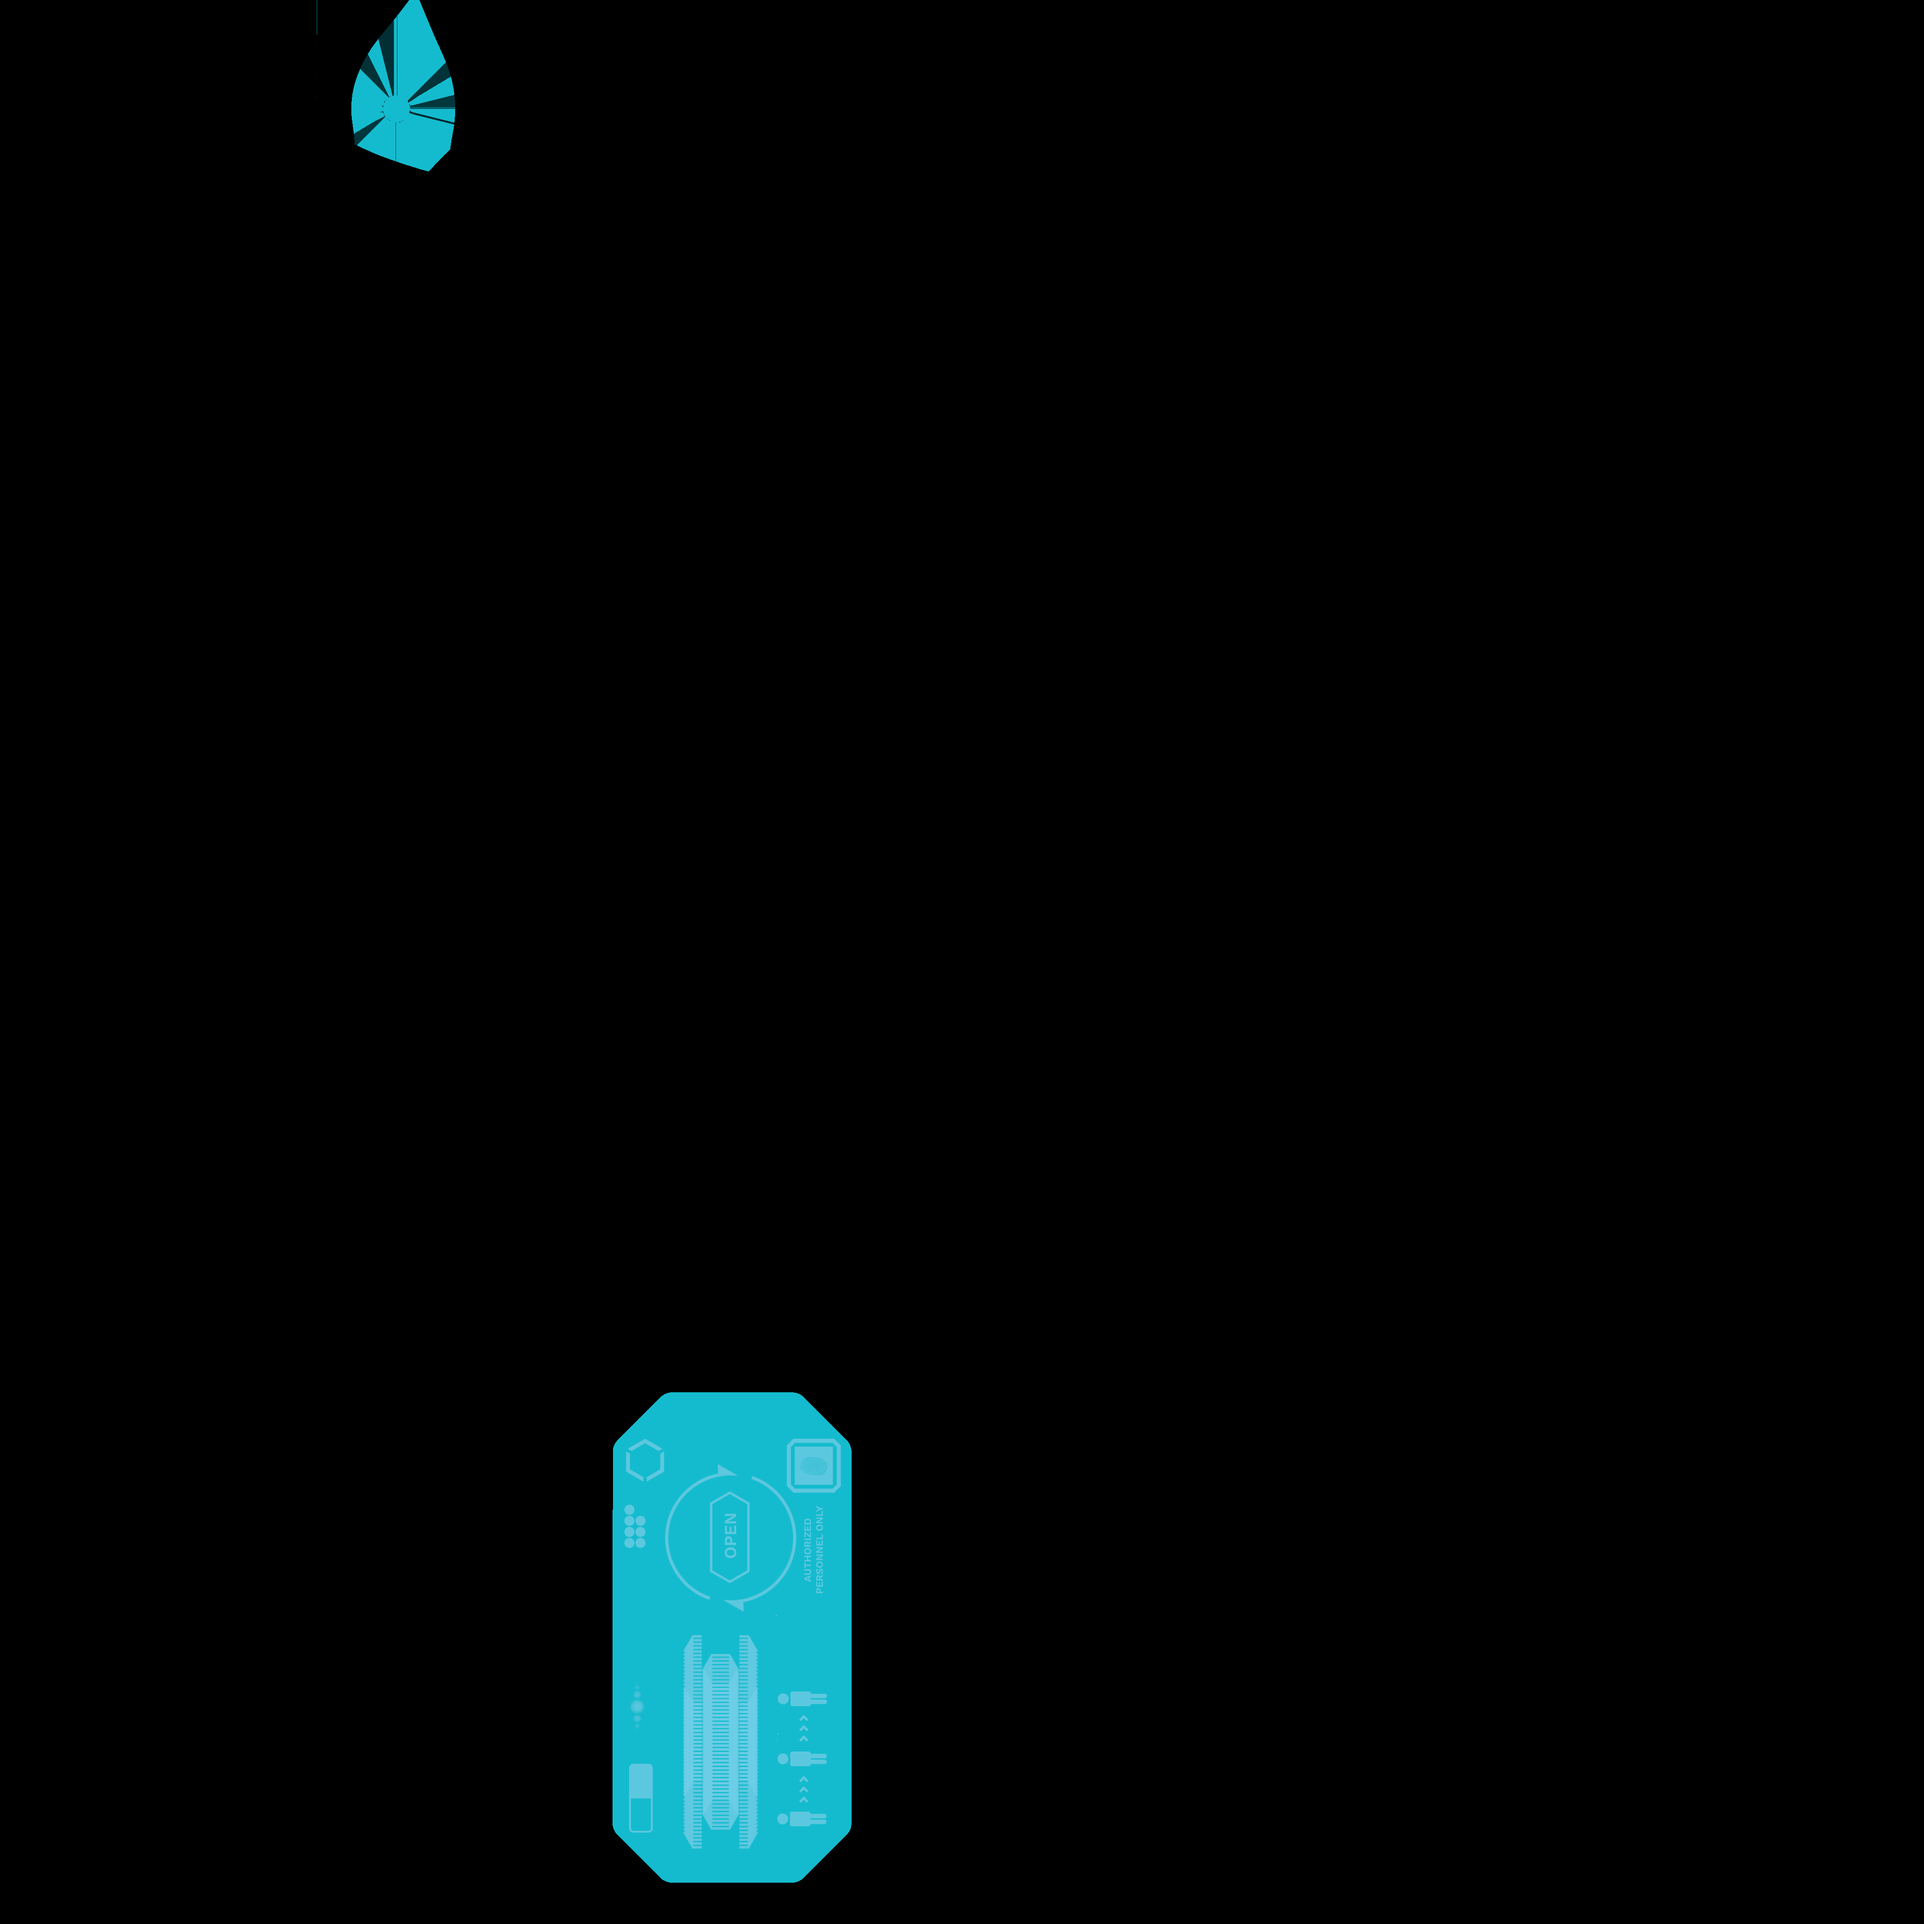
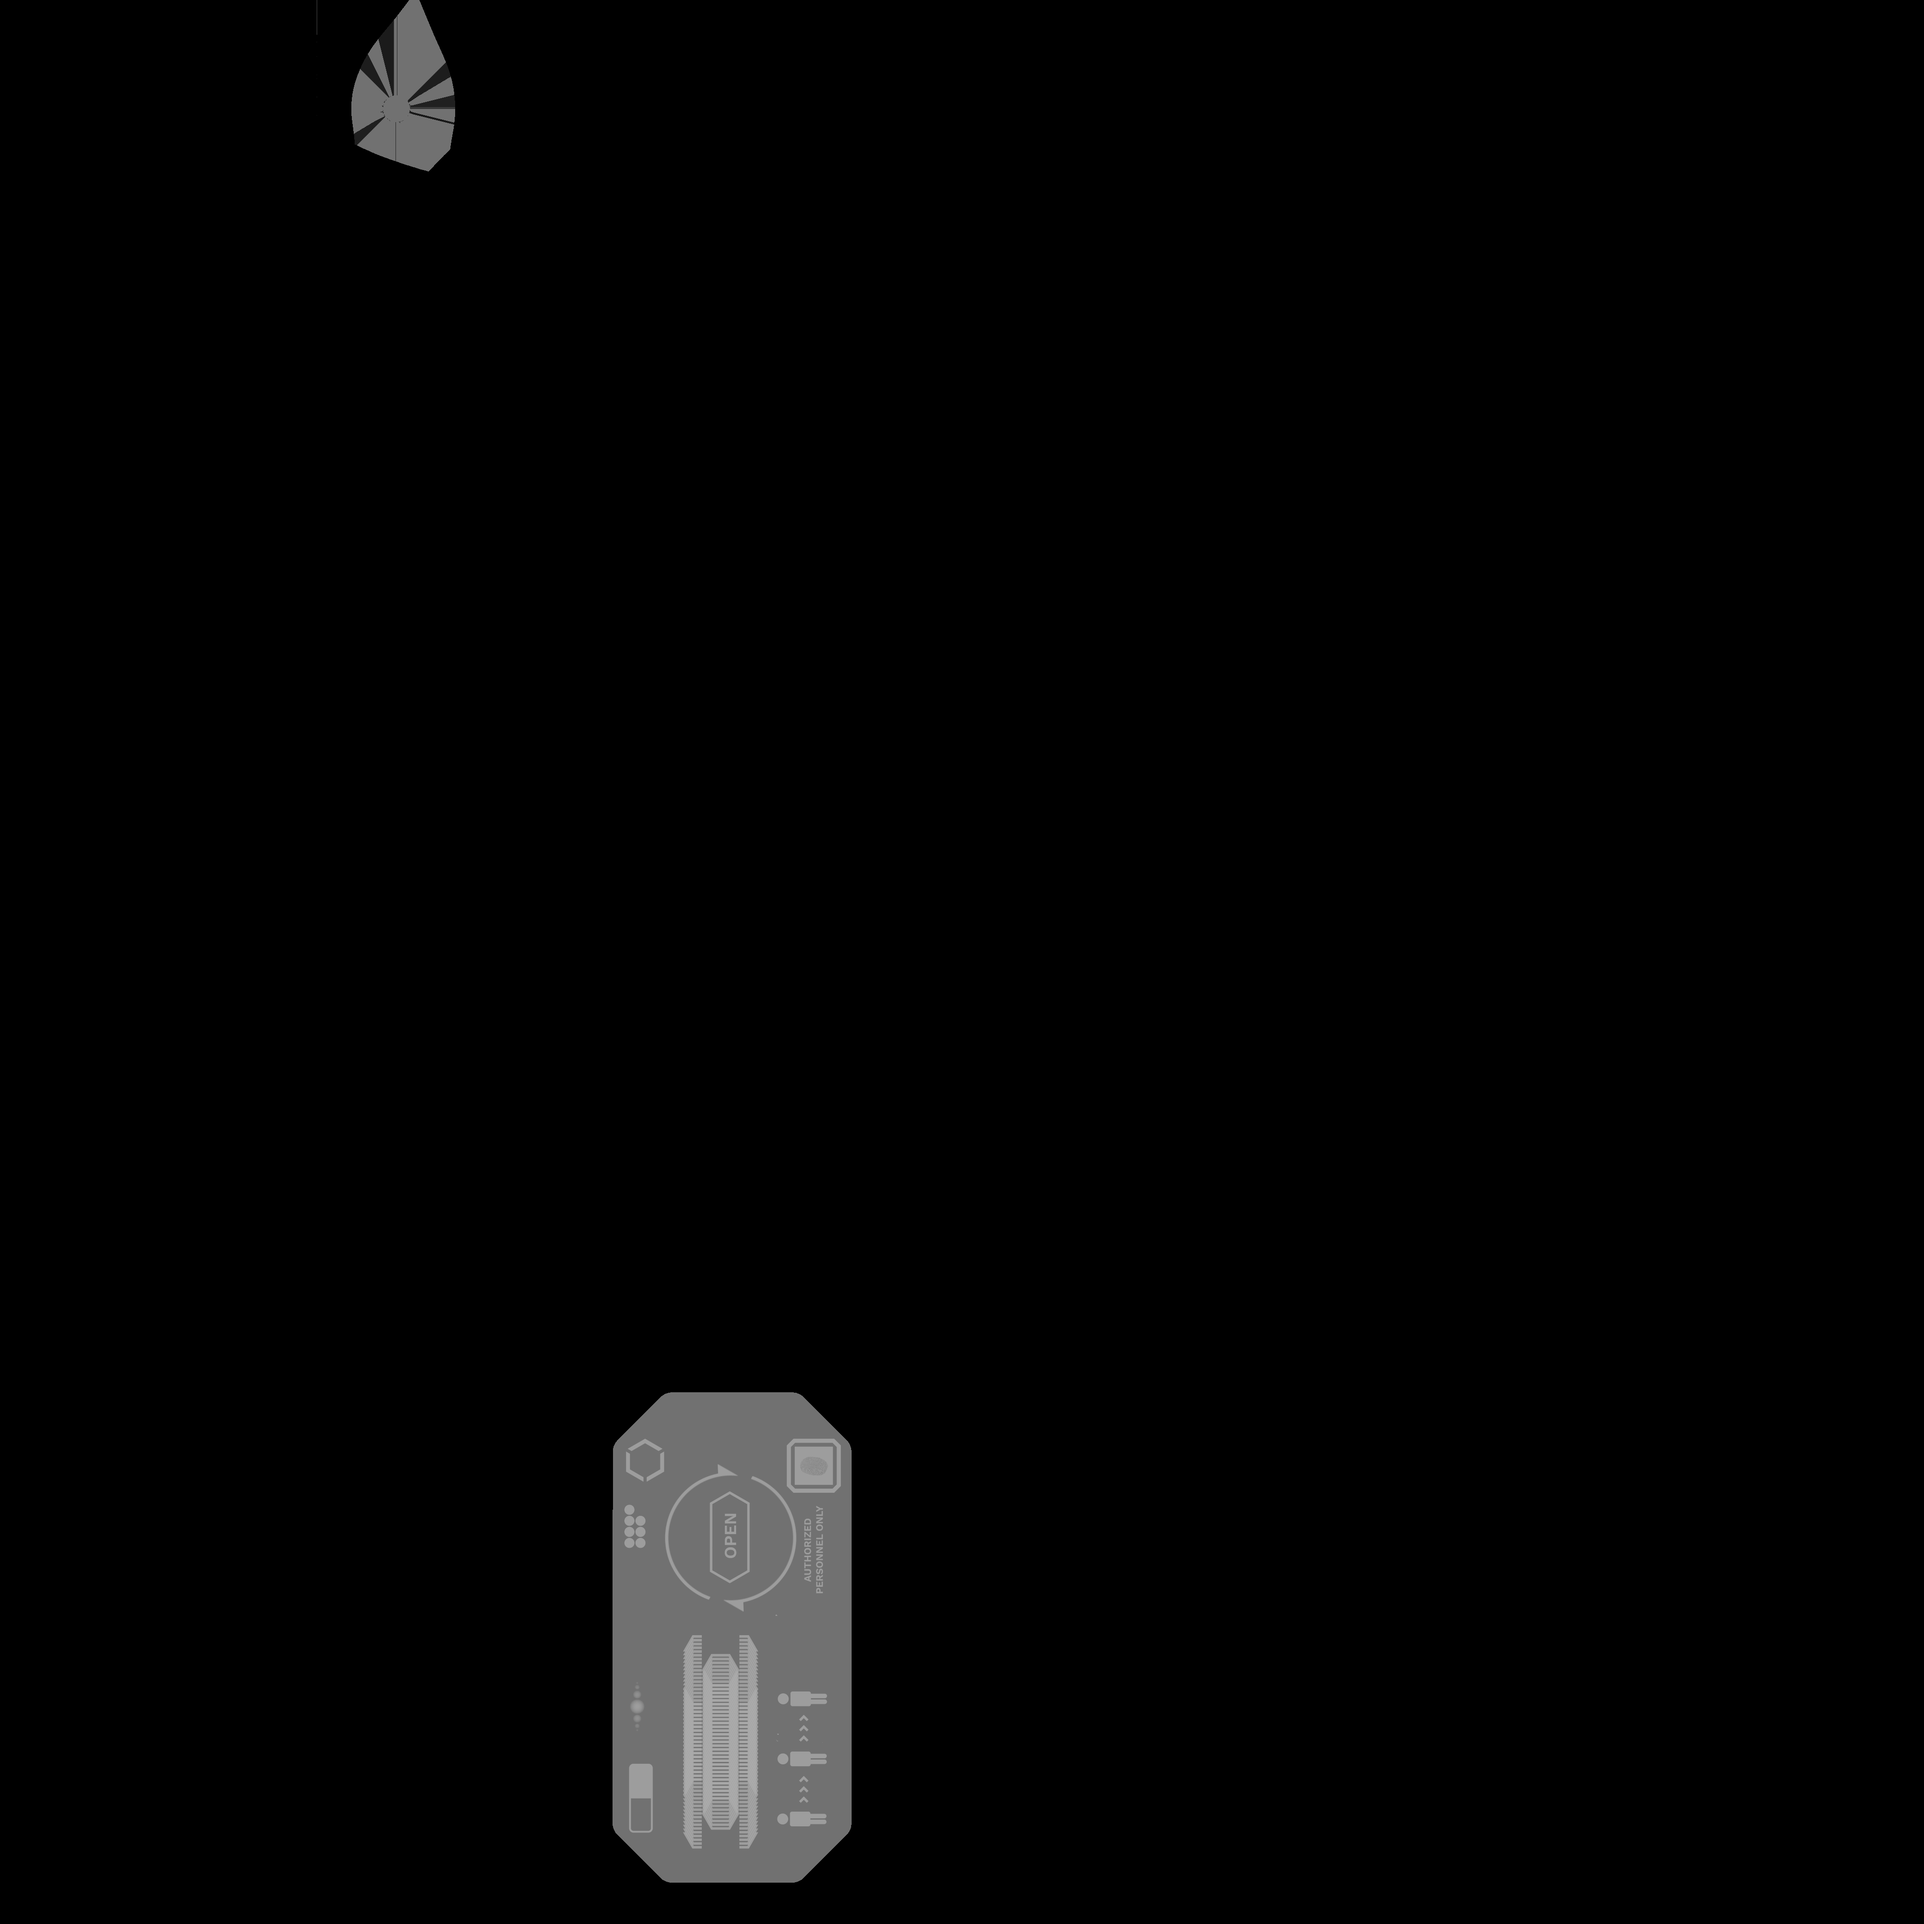
Make player color constant + add color coded terminals
To spice up the coop
Level 4 last puzzle still needs improvement to make it more coop focused

Changed region(s): [[0.3125, 0.7188, 0.4688, 1.0], [0.1562, 0.0, 0.25, 0.0938]]

diff --git a/Project/Assets/CET/Scripts/PlayerController.cs b/Project/Assets/CET/Scripts/PlayerController.cs
@@ -33,6 +33,19 @@ public class PlayerController : NetworkBehaviour
 
     private AudioSource audioSource;
 
+    public GameObject FocusPhone;
+
+    [SyncVar]
+    public bool IsFocusingOnPhone;
+
+    private Player player;
+
+    [Command]
+    public void CmdSetFocusingOnPhone(bool isFocusing)
+    {
+        IsFocusingOnPhone = isFocusing;
+    }
+
     public void SetInputEnabled(bool enabled)
     {
         IsInputEnabled = enabled;
@@ -89,6 +102,7 @@ public class PlayerController : NetworkBehaviour
         charControl = GetComponent<CharacterController>();
         animator = GetComponent<Animator>();
         audioSource = GetComponent<AudioSource>();
+        player = GetComponent<Player>();
 
         InteractionText = Instantiate(InteractionTextPrefab, GameObject.Find("Canvas").transform);
         InteractionText.transform.SetSiblingIndex(0);
@@ -117,7 +131,7 @@ public class PlayerController : NetworkBehaviour
             foreach (var col in colliders)
             {
                 if (col.CompareTag("BlockInteraction")) break;
-                if (col.TryGetComponent<Interactable>(out var inter) && inter.IsOn)
+                if (col.TryGetComponent<Interactable>(out var inter) && inter.IsOn && (inter.PlayerIndex == -1 || inter.PlayerIndex == player.PlayerIndex))
                 {
                     found = true;
                     CurrentInteractable = inter;
@@ -152,6 +166,11 @@ public class PlayerController : NetworkBehaviour
         } else
         {
             InteractionText.SetActive(false);
+        }
+
+        if (isServerOnly)
+        {
+            FocusPhone.SetActive(IsFocusingOnPhone);
         }
     }
 

diff --git a/Project/Assets/CET/Scripts/Player.cs b/Project/Assets/CET/Scripts/Player.cs
@@ -40,7 +40,7 @@ public class Player : NetworkBehaviour
     public PlayerSaveData GetData() => new()
     {
         PlayerIndex = PlayerIndex,
-        ColorIndex = ColorIndex,
+        // ColorIndex = ColorIndex,
         EmotionIndex = EmotionIndex,
         Username = Username
     };
@@ -79,8 +79,12 @@ public class Player : NetworkBehaviour
         Username = newName;
     }
 
-    public void SetColorIndex(int colorIndex)
+    public void SetColorIndex(int colorIndex=-1)
     {
+        if (colorIndex == -1)
+        {
+            colorIndex = PlayerIndex;
+        }
         ColorIndex = colorIndex;
         GetComponent<Rob10ColorManager>().ChangeBodyColor(colorIndex);
     }

diff --git a/Project/Assets/CET/Scripts/Entities/Activatable.cs b/Project/Assets/CET/Scripts/Entities/Activatable.cs
@@ -11,6 +11,10 @@ public class Activatable : Entity
     public AudioSource AudioSource;
     public UnityEvent<bool> OnTurnOnEvent;
 
+    public int PlayerIndex = -1;
+
+    public Color? EmissionColor;
+
     public override void OnStartClient()
     {
         base.OnStartClient();
@@ -61,6 +65,10 @@ public class Activatable : Entity
                 if (value)
                 {
                     mat.EnableKeyword("_EMISSION");
+                    if (EmissionColor != null)
+                    {
+                        mat.SetColor("_EmissionColor", EmissionColor.Value);
+                    }
                 }
                 else
                 {

diff --git a/Project/Assets/CET/Scripts/Mirror/NewNetworkManager.cs b/Project/Assets/CET/Scripts/Mirror/NewNetworkManager.cs
@@ -97,7 +97,7 @@ public class NewNetworkManager : NetworkManager
         var playerComp = player.GetComponent<Player>();
         playerComp.PlayerIndex = index;
 
-        playerComp.SetColorIndex(oldPlayer != null ? oldPlayer.ColorIndex : (numPlayers + Random.Range(0, 10)) % 10);
+        playerComp.SetColorIndex();
         playerComp.SetEmotionIndex(oldPlayer != null ? oldPlayer.EmotionIndex : (numPlayers + Random.Range(0, 10)) % 10);
         playerComp.Username = oldPlayer != null ? oldPlayer.Username : "p"+(index+1);
         if (GameState.Instance.InLobby())

diff --git a/Project/Assets/CET/Scripts/Entities/TerminalInteractable.cs b/Project/Assets/CET/Scripts/Entities/TerminalInteractable.cs
@@ -43,6 +43,14 @@ public class TerminalInteractable : Interactable
     protected override void Awake()
     {
         base.Awake();
+        
+        EmissionColor = PlayerIndex switch
+        {
+            0 => new Color(0, 0.36f, 0.87f),
+            1 => new Color(1, 0.3f, 0),
+            _ => null
+        };
+        
         SetEmission(IsOn);
         VPLMenu = MenuManager.Instance.GetMenu<VPLMenu>("VPLMenu");
         var go = Instantiate(VPLEditMenuPrefab, VPLMenu.transform);
